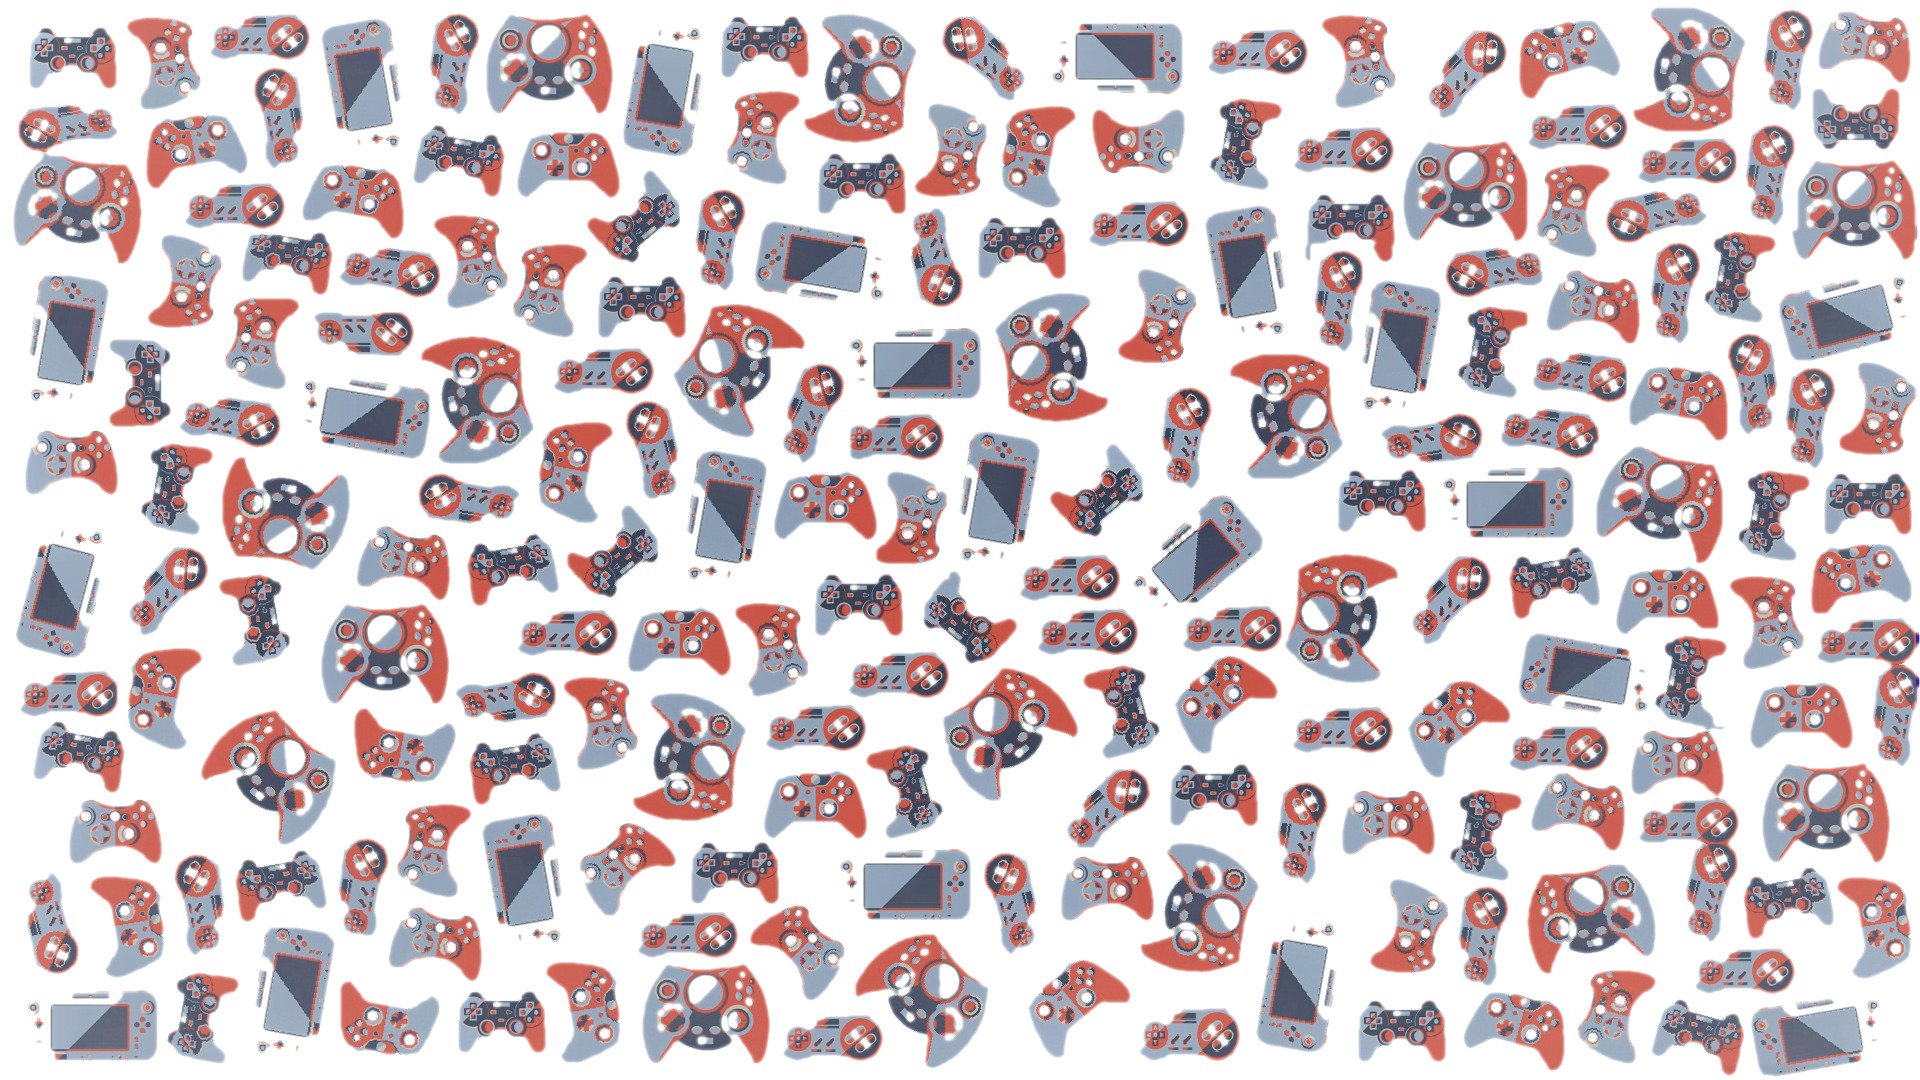
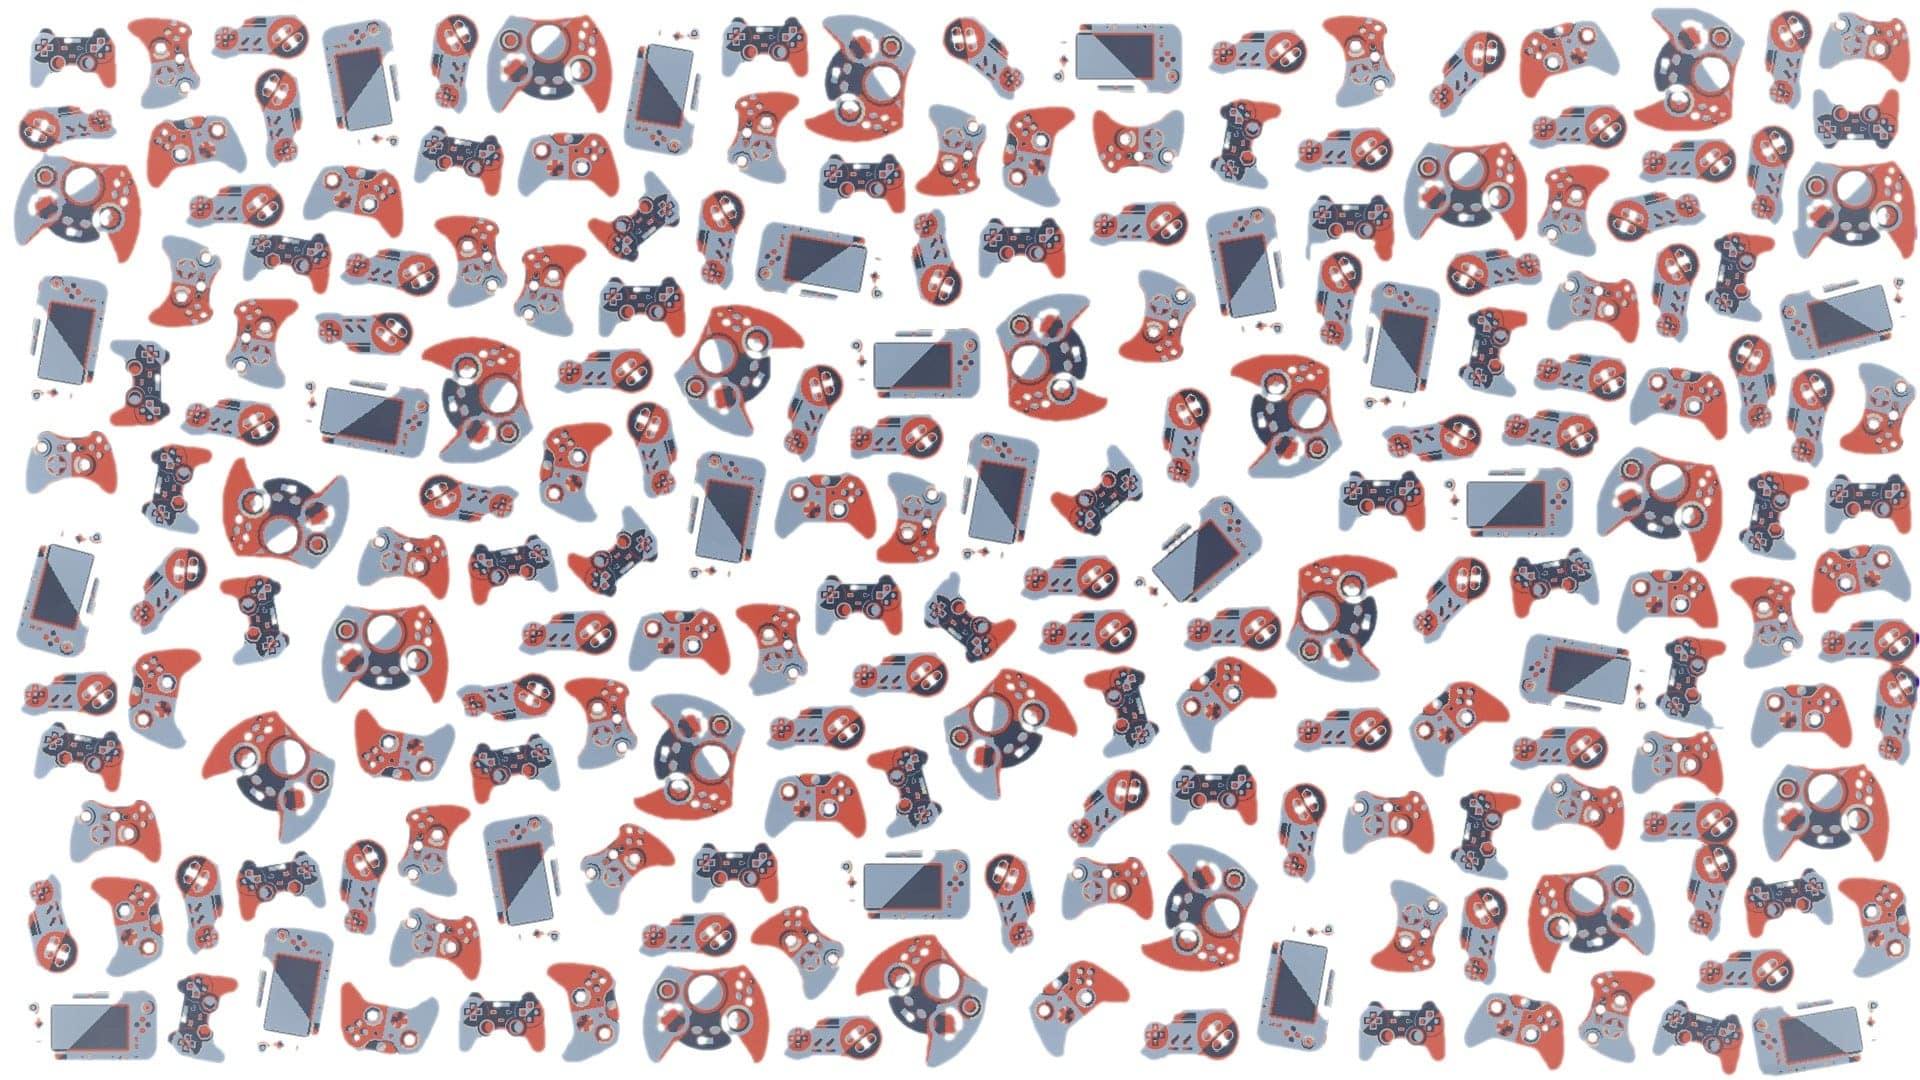
Smaller Background Image Size

diff --git a/docs/AIArcade/index.html b/docs/AIArcade/index.html
@@ -20,6 +20,7 @@
     <meta name="msapplication-TileColor" content="#2e2e33">
     <link rel="alternate" type="application/rss+xml" href="https://indropal.github.io/index.xml">
     <link rel="alternate" type="application/json" href="https://indropal.github.io/index.json">
+    <link rel="preload" href="/static/background.jpg" as="image">
 
     <noscript>
         <style>
@@ -79,9 +80,15 @@
               ]
     }
     </script>
+
 </head>
 
-<body class="list" id="top" style="background: url(/static/background.jpg) repeat, var(--arcade-accent); background-size:contain; background-blend-mode:soft-light;">
+<body class="list" id="top"
+      style="background: url(/static/background.jpg) repeat, var(--arcade-accent);
+             background-size:contain;
+             background-blend-mode:soft-light;
+             "
+>
     <script>
         if (localStorage.getItem("pref-theme") === "dark") {
             document.body.classList.add('dark');
